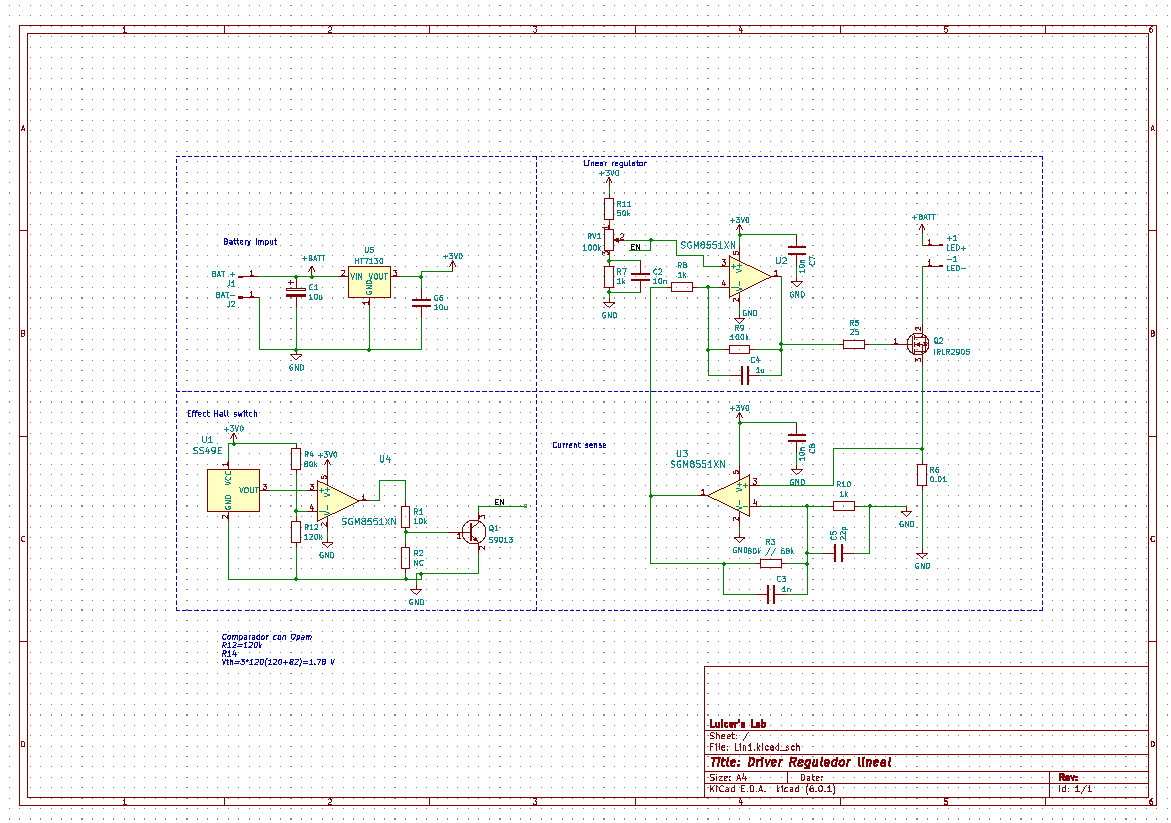
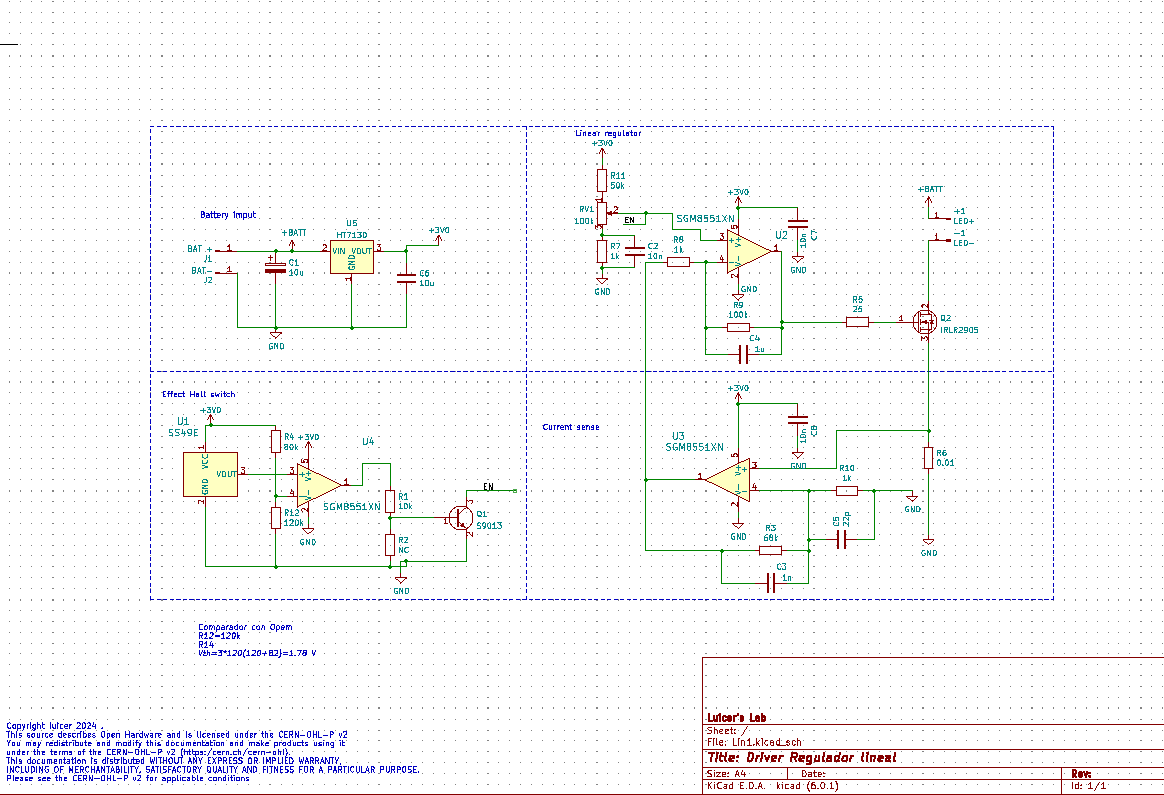
Actualización para publicación

diff --git a/_posts/2024-02-25-Flashlight-Driver-Lineal.md b/_posts/2024-02-25-Flashlight-Driver-Lineal.md
@@ -1,20 +1,20 @@
 ---
-title: "Driver Lineal Linterna Led Open Hardware."
+title: "Driver Lineal Linterna DV-S9 Led Open Source Hardware."
 
 
 
 toc: true
 categories:
-  - Flashlight
+  - Linterna
 full-width: true
 tags:
+  - Lineal
+  - OSHW
   - LED
-  - Flashlight
-  - Linear
 
   
 
-excerpt: "En este post se explica el diseño de un driver con regulador lineal regulable para linterna de buceo tipo DV-S9 para una intensidad de hasta 3 A y un tensión de entrada entre 3V y 4,2V además de una reducida intensidad de vacío. El driver consigue una eficiencia de entre 90 % y 70 % a intensidad máxima. Este diseño es open hardware con los documentos diseño almacenados en Github."
+excerpt: "En este post se explica el diseño de un driver con regulador lineal regulable para linterna de buceo tipo DV-S9 para una intensidad de hasta 3 A y un tensión de entrada entre 3V y 4,2V además de una reducida intensidad de vacío. El driver consigue una eficiencia de entre 90 % y 70 % a intensidad máxima. Este diseño es open source hardware con los documentos diseño almacenados en Github."
 
 header:
 
@@ -31,24 +31,28 @@ En este articulo se va ha mostrar un diseño de un driver para una linterna led 
 
 <!-- <img src="/assets/images/2024/DV-S9.jpg" alt="DV-S9" align=”middle”>  -->
 
-Esta linterna se alimenta con una batería de ión de litio 18650 o 2320 y utiliza un led tipo cree cree tipo XM-L2. A partir de las características eléctricas del XM-L2 se puede ver que para intensidades entre 1,5 A y 3 A se necesitan tensiones entre 3 V i 3.4 V este voltage se debe suministrar a partir de las baterías pero el voltage que proporcionan la baterías de ion de litio está entre entre 2,5 V y 4,2 V. Estas linternas utilizan un driver para mantener la corriente constante, normalmente se utiliza un diver reductor que permite disminuir la tensión de la batería hasta el valor necesario para suministrar la corriente necesaria, al ser un driver reductor hay un pequeño porcentaje de la energía de la batería que no se puede utilizar. Estos driver pueden ser del tipo lineal, más sencillos o del tipo conmutado que requiere un circuito más complejo. 
+Esta linterna se alimenta con una batería de ión de litio 18650 o 2320 y utiliza un led tipo cree cree tipo XM-L2. A partir de las características eléctricas del XM-L2 se puede ver que para intensidades entre 1,5 A y 3 A se necesitan tensiones entre 3 V i 3.4 V este voltage se debe suministrar a partir de las baterías pero el voltage que proporcionan la baterías de ion de litio está entre entre 2,5 V y 4,2 V. Estas linternas utilizan un driver para mantener la corriente constante, normalmente se utiliza un diver reductor que permite disminuir la tensión de la batería hasta el valor necesario para suministrar la corriente necesaria. Al ser un  driver reductor hay un pequeño porcentaje de la energía de la batería que no se puede utilizar ya que si la tensión de la batería es inferior a la tensión del LED,éste no pude alumbrar. Estos driver pueden ser del tipo lineal, más sencillos o del tipo conmutado que requiere un circuito más complejo. 
 
 {:style="text-align:center;"}
 ![XML2_EC](/assets/images/2024/Lineal_Led/XML2_EC.png "Características eléctricas XML2") 
 
 La linterna de serie consta de un driver lineal a partir del integrado AMC7136 que controla tres transistores sot23 y consigue el control de corriente a traves de un microcontrolador tipo Attiny13 activando y desactivando el regulador a traves de una señal PWM. Según mis medidas el driver puede dar una intensidad máxima de 1,5 A y en vacío tiene un consumo de 10 mA. Para activar la linterna utiliza un switch de efecto hall. El consumo en vacío debido al switch de efecto hall y al microcontrolador es relativamente alto y provoca que la batería se descargue si no se desconecta cuando no se utiliza. Además en determinadas circunstancias se puede provocar electrolisis en la carcasa de aluminio. 
 
+<!-- {:style="text-align:center;"}
+![Driver DV-S9](/assets/images/2024/Lineal_Led/DriverDVS9.jpg "Driver")  -->
+
 {:style="text-align:center;"}
-![Driver DV-S9](/assets/images/2024/Lineal_Led/DriverDVS9.jpg "Driver") 
+<img src="/assets/images/2024/Lineal_Led/DriverDVS9.jpg" title="Diver Original" width="300" height="auto">
+<img src="/assets/images/2024/Lineal_Led/Driver_d.jpg" title="Diseño" width="300" height="auto">
 
 El objetivo es diseñar un driver de bajo coste para sustituir el original que permita regular la corriente entre 1 A y 3 A y que no necesite un microcontrolador para disminuir la corriente de vacío.   
 
 # Especificaciones Driver.
 El diseño driver tiene las siguientes características:  
-- Regulador de tipo lineal
+- Regulador de tipo lineal.
 - Intensidad regulable de hasta 3 A.
 - Tensión de entrada de 3 V a 4,2 V.
-- Intensidad en vacío de 4 mA
+- Intensidad en vacío de 4 mA.
 
 # Diagrama de bloques.
 El diagrama de bloques de diseño propuesto es el siguiente: 
@@ -66,17 +70,17 @@ El esquema que he utilizado para implementar el diseño es el siguiente:
 
 Este esquema se puede descargara aquí: [Esquema](/assets/images/2024/Lineal_Led/Regulador_Lineal_Sch.pdf)
 
-## Alimentación
+## Alimentación.
 Para alimentar el driver se utiliza una batería tipo LiON 18650 que puede suministrar entre 2,5 V y 4,2 V y el LED XM-L necesita tensiones entre 3V y 3.4 V por tanto se diseñará unas tension de alimentación entre 3V y 4.2V.De esta manera los componentes se seleccionarán para un tensión máxima de 4.2 V y para poder poder alimentar de manera estable la parte de control se utiliza un LDO de 3V modelo HT3170. 
 
-## Sensor de corriente
+## Sensor de corriente.
 Como sensor de corriente se utiliza un resistencia de 10mOHms y un amplificador para elevar la tensión de medida. Se ha utilizado un resistencia pequeña para que su caída de tensión no limite la tensión de alimentación del led, pudiendo alimentar la linterna con una tensión de sólo 3V. Para la implementación del amplificador se ha ha elegido un OPAMP de precisión y de bajo offset como el SGM8511.
 
 
-## Regulador lineal
-El circuito utiliza un típico regulador lineal con un MOSFET y un OPAMP realimentado con el sensor de corriente para poder controlar la intensidad que pasa por el led en función de la tensión de entrada. Para la implementación del regulador se ha elegido el mismo OPAMP que el utilizado para el sensor de corriente, el MOSFET IRLR2905 que con una Ron muy baja, para poder utilizar la linterna hasta un tensión de entrada de 3V.  
+## Regulador lineal.
+El circuito utiliza un típico regulador lineal con un MOSFET y un OPAMP realimentado con el sensor de corriente para poder controlar la intensidad que pasa por el led en función de la tensión de entrada. Para la implementación del regulador se ha elegido el mismo OPAMP que el utilizado para el sensor de corriente, el MOSFET IRLR2905 que con una Ron muy baja y un tensión Vgs baja, para poder utilizar la linterna hasta un tensión de entrada de 3V.  
 
-## Interruptor
+## Interruptor.
 El interruptor controla la distancia entre un imán y un sensor de efecto hall S49E. Para activar la linterna se compara la salida del sensor de efecto hall con el valor de tensión medido de cuando el interruptor está en posición intermedia del recorrido, este valor es de aprox 1.72V. Para implementar el comparador se utiliza un OPAMP del mismo modelo que el utilizado en el resto del driver y un transistor para eliminar la consigna del regulador lineal.
 
 # PCB.
@@ -94,6 +98,15 @@ La PCB montada queda de la siguiente manera:
 
 ![Assembly](/assets/images/2024/Lineal_Led/Build.jpg "Assembly") 
 
+En el repositorio se incluyen los archivos Gerber de fabricación generados para le fabricante de PCB JLCPCB, pero que son compatible con al mayoría de casas de fabricación de PCBs. 
+
+# BOM.
+El listado de materiales necesarios es el siguiente, se ha incluido el código LCSC de los componentes.
+
+{:style="text-align:center;"}
+![BOM](/assets/images/2024/Lineal_Led/BOM.png "BOM") 
+
+En el momento de la realización del post el precio de los componentes para la fabricación de 10 unidades en la pagina web de LCSC es de 49,75 $ por tanto el coste de componentes por unidad sería de unos 4,975$/u. 
 
 # Medidas Realizadas.
 Se han hecho las siguientes mediciones:
@@ -101,7 +114,7 @@ Se han hecho las siguientes mediciones:
 Primeramente se mide la intensidad en vacío, con el interruptor de efecto hall desactivado.
 
 {:style="text-align:center;"}
-![Vacío](/assets/images/2024/Lineal_Led/Fun_1.png "Vacío") 
+![Vacío](/assets/images/2024/Lineal_Led/Fun_1.jpg "Vacío") 
 
 
 Se comprueba que la intensidad consumida en vacío es básicamente las del sensor efecto hall dando un total de 4mA.
@@ -109,7 +122,7 @@ Se comprueba que la intensidad consumida en vacío es básicamente las del senso
 Después se activa el sensor de efecto hall y se pude medir la corriente con el potenciómetro ajustado a 2 A.
 
 {:style="text-align:center;"}
-![2A](/assets/images/2024/Lineal_Led/Fun_2.png "2A") 
+![2A](/assets/images/2024/Lineal_Led/Fun_2.jpg "2A") 
 
 
 La intensidad medida a partir de la tensión en la resistencia de 10 miliohms con el osciloscopio es la siguiente:
@@ -117,8 +130,7 @@ La intensidad medida a partir de la tensión en la resistencia de 10 miliohms co
 {:style="text-align:center;"}
 ![Isense](/assets/images/2024/Lineal_Led/Isense_1.png "Isense")
 
-Se comprueba que la intensidad es bastante estable.
-
+Una intensidad de 2A genera una tensión de aproximadamente 20mV sobre la resistencia, se comprueba que el rizado de la intensidad es pequeño, en ningún caso pasa por 0.
 
 # Medida de eficiencia y tensión de funcionamiento.
 
@@ -144,8 +156,13 @@ La comparación entre los dos haces de una linterna estándar de 1,5 A. y una li
 {:style="text-align:center;"}
 ![Haces](/assets/images/2024/Lineal_Led/Haces.jpg "Haz")
 
-Se observa que el driver propuesto alumbra un poco más que el original.
+Se observa que el driver diseñado alumbra un poco más que el driver original.
 
-# Licencia
+# Documentación de diseño y Licencia.
 
-Este diseño es open hardware según la licencia CERN OHL V2 permisiva.
+Toda la documentación del diseño incluido el proyecto en KICAD de la PCB, los documentos de fabricación, el esquema y el listado de material se encuentra en le siguiente repositorio de Github:
+
+[https://github.com/luicer/Linear-Flashlight-DV-S9-Driver](https://github.com/luicer/Linear-Flashlight-DV-S9-Driver)
+
+
+Este diseño es open source hardware según la licencia CERN OHL V2 permisiva.
